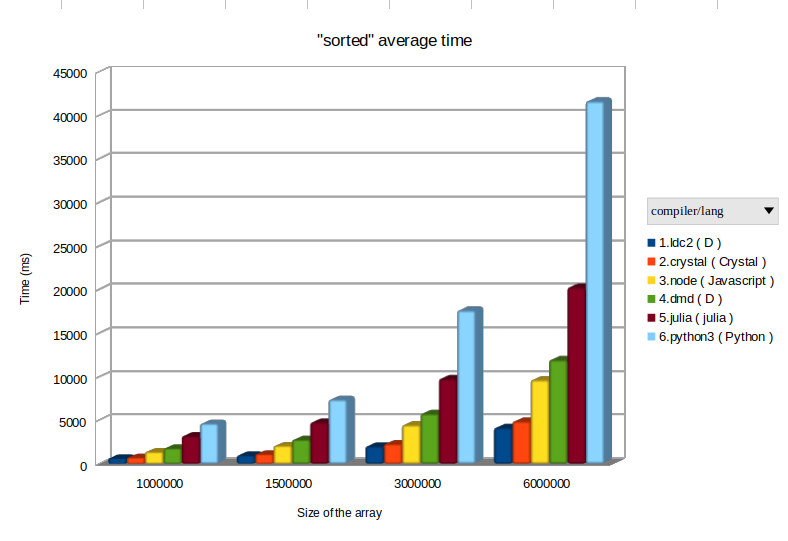
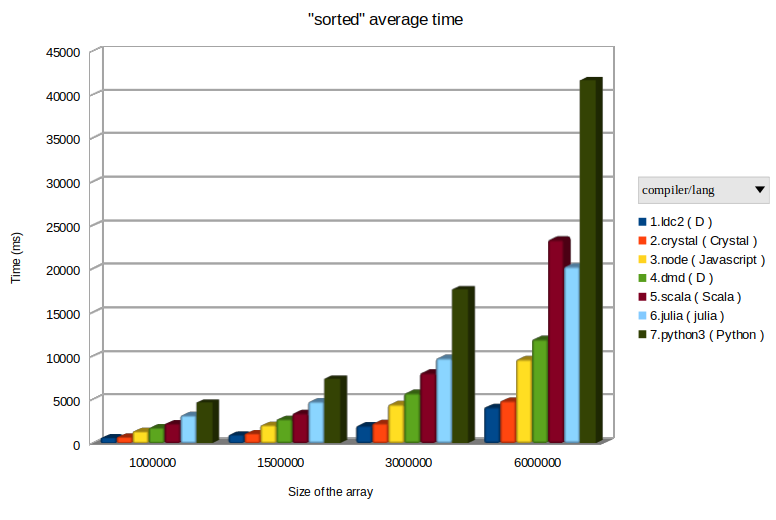
* Added scala

Changed region(s): [[0.0, 0.0923, 1.0, 0.9538], [0.4021, 0.0308, 0.6186, 0.0923]]

diff --git a/README.md b/README.md
@@ -86,6 +86,20 @@ function sorted(xs::Array{Float64, 1})::Array{Float64, 1}
 end
 ```
 
+In Scala
+
+```scala
+def sorted( xs:List[Double] ): List[Double] =
+  xs match {
+    case Nil =>
+      List()
+    case pivot :: rest =>
+      sorted( rest.filter( _ < pivot ) ) ++
+      List(pivot) ++
+      sorted( rest.filter( _ >= pivot ) )
+  }
+```
+
 Fore better measurement, each test is internally ran 5 times, each time with a newly generated set of numbers (to avoid run-to-run optimization effects).
 
 The results, as CSV, are
@@ -108,6 +122,10 @@ compiler,lang,size,ms
 "dmd","D",1500000,2772
 "dmd","D",3000000,5762
 "dmd","D",6000000,11942
+"scala","Scala",1000000,2279
+"scala","Scala",1500000,3448
+"scala","Scala",3000000,8086
+"scala","Scala",6000000,23369
 "julia","julia",1000000,3210
 "julia","julia",1500000,4791
 "julia","julia",3000000,9772
